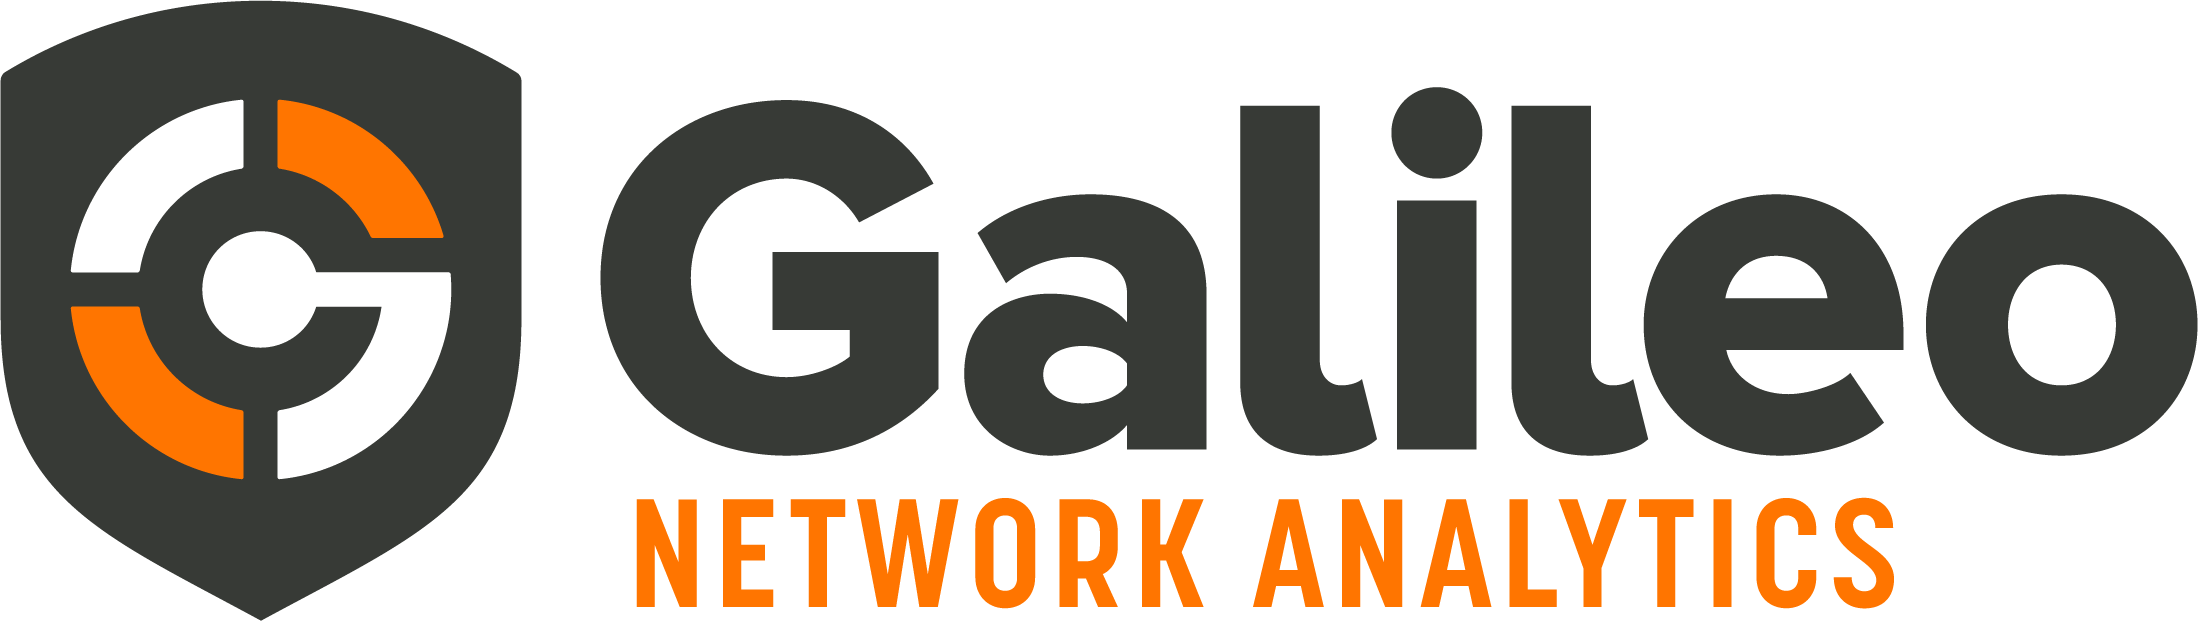
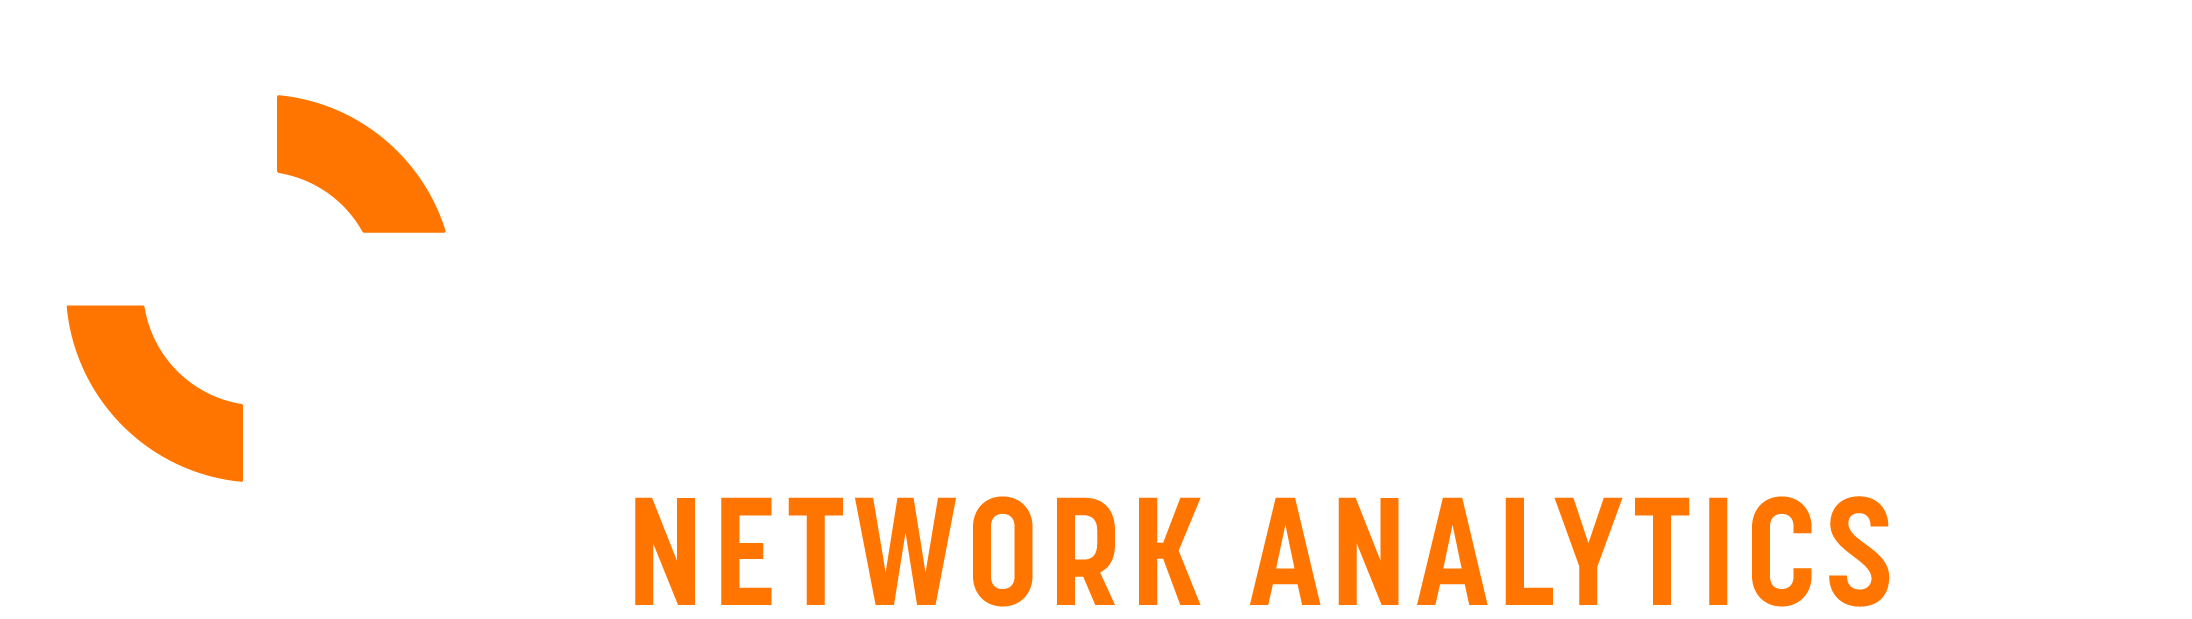
Updated light and dark mode images.

diff --git a/README.md b/README.md
@@ -1,5 +1,5 @@
-![galileo](gnat-dark.png#gh-dark-mode-only)
 ![galileo](gnat-light.png#gh-light-mode-only)
+![galileo](gnat-dark.png#gh-dark-mode-only)
 
 
 Galileo Network Analytics Toolkit (formerly ShadowMeter) is a microservices-oriented toolkit for building advanced network monitoring and anomaly detection solutions. Designed to be deployed with [Docker](https://www.docker.com/) containers, the toolkit includes unix-like commandline applications implemented in [Rust](https://www.rust-lang.org/).  
@@ -29,7 +29,7 @@ The design of the Galileo Toolkit is motivated by the Unix Philosophy ([Wikipedi
 - [&check;] Phase 1 - Implement a toolkit of commandline applications in Rust.
 - [&check;] Phase 2 - Build a Docker container images that integrate commandline applications, YAF, QuestDB , and Grafana.
 - [&check;] Phase 3 - Publish a docker-compose.yml as an example of fully functional network monitoring solution (less anomaly detection functions).
-- [&nbsp;] Phase 4 - By the end of 2024, finish implementing anomaly detection commandline application that uses the PyTorch library and docker-compose.yml to demonstrate usage.
+- [&nbsp;] Phase 4 - By the end of 2024, finish implementing anomaly detection commandline application that uses the PyTorch library plus publish docker-compose.yml to demonstrate usage.
 
 ## Commandline Applications
 The following commandline applications are designed to run in Docker containers:
